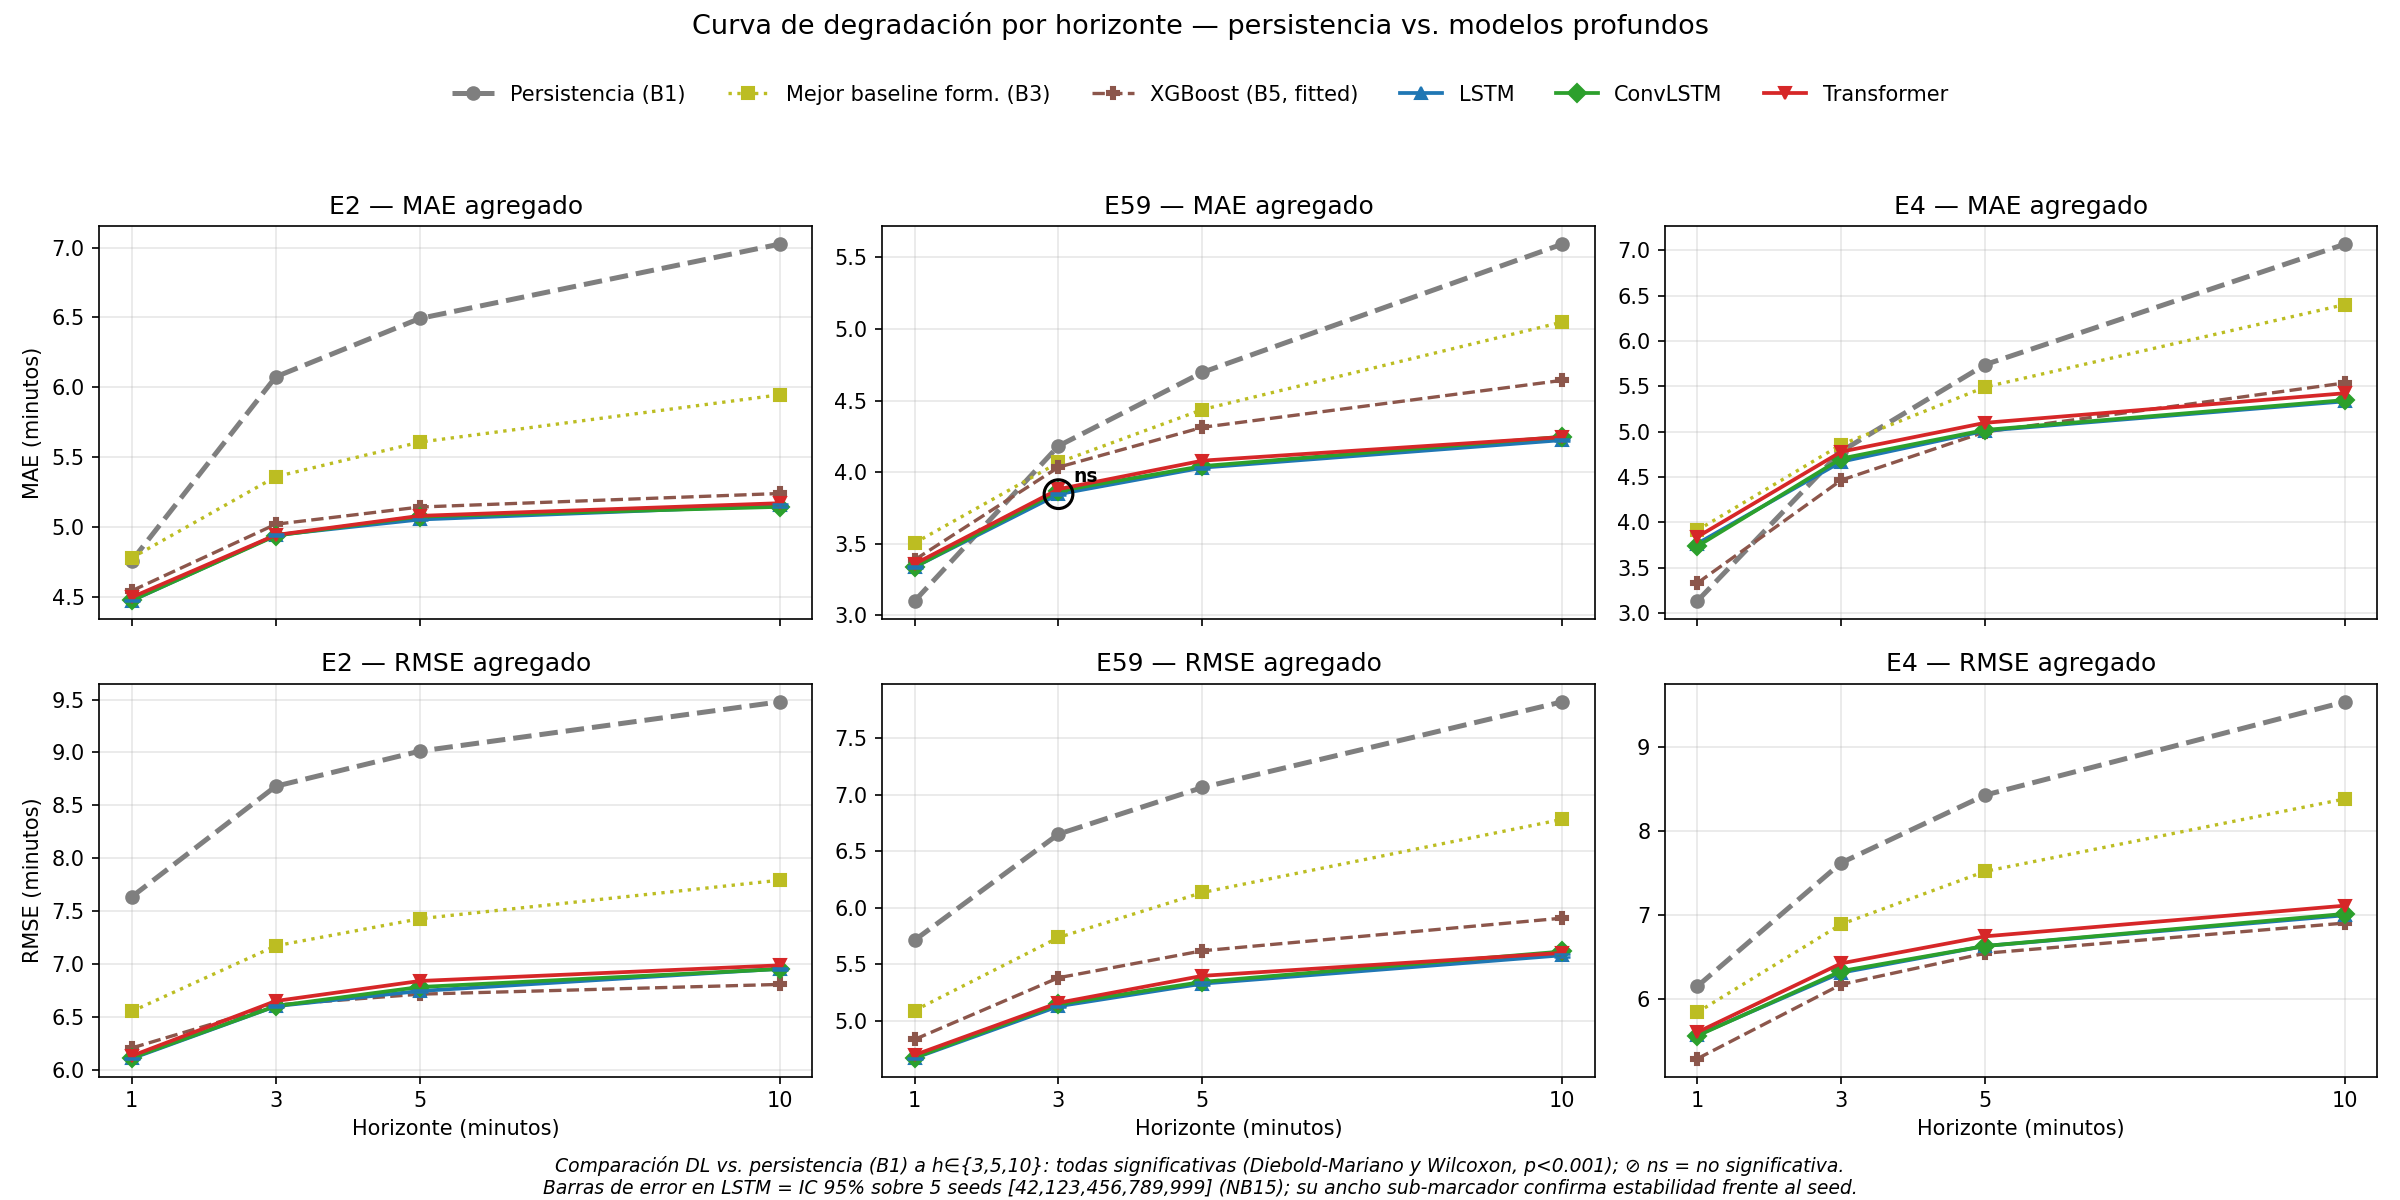
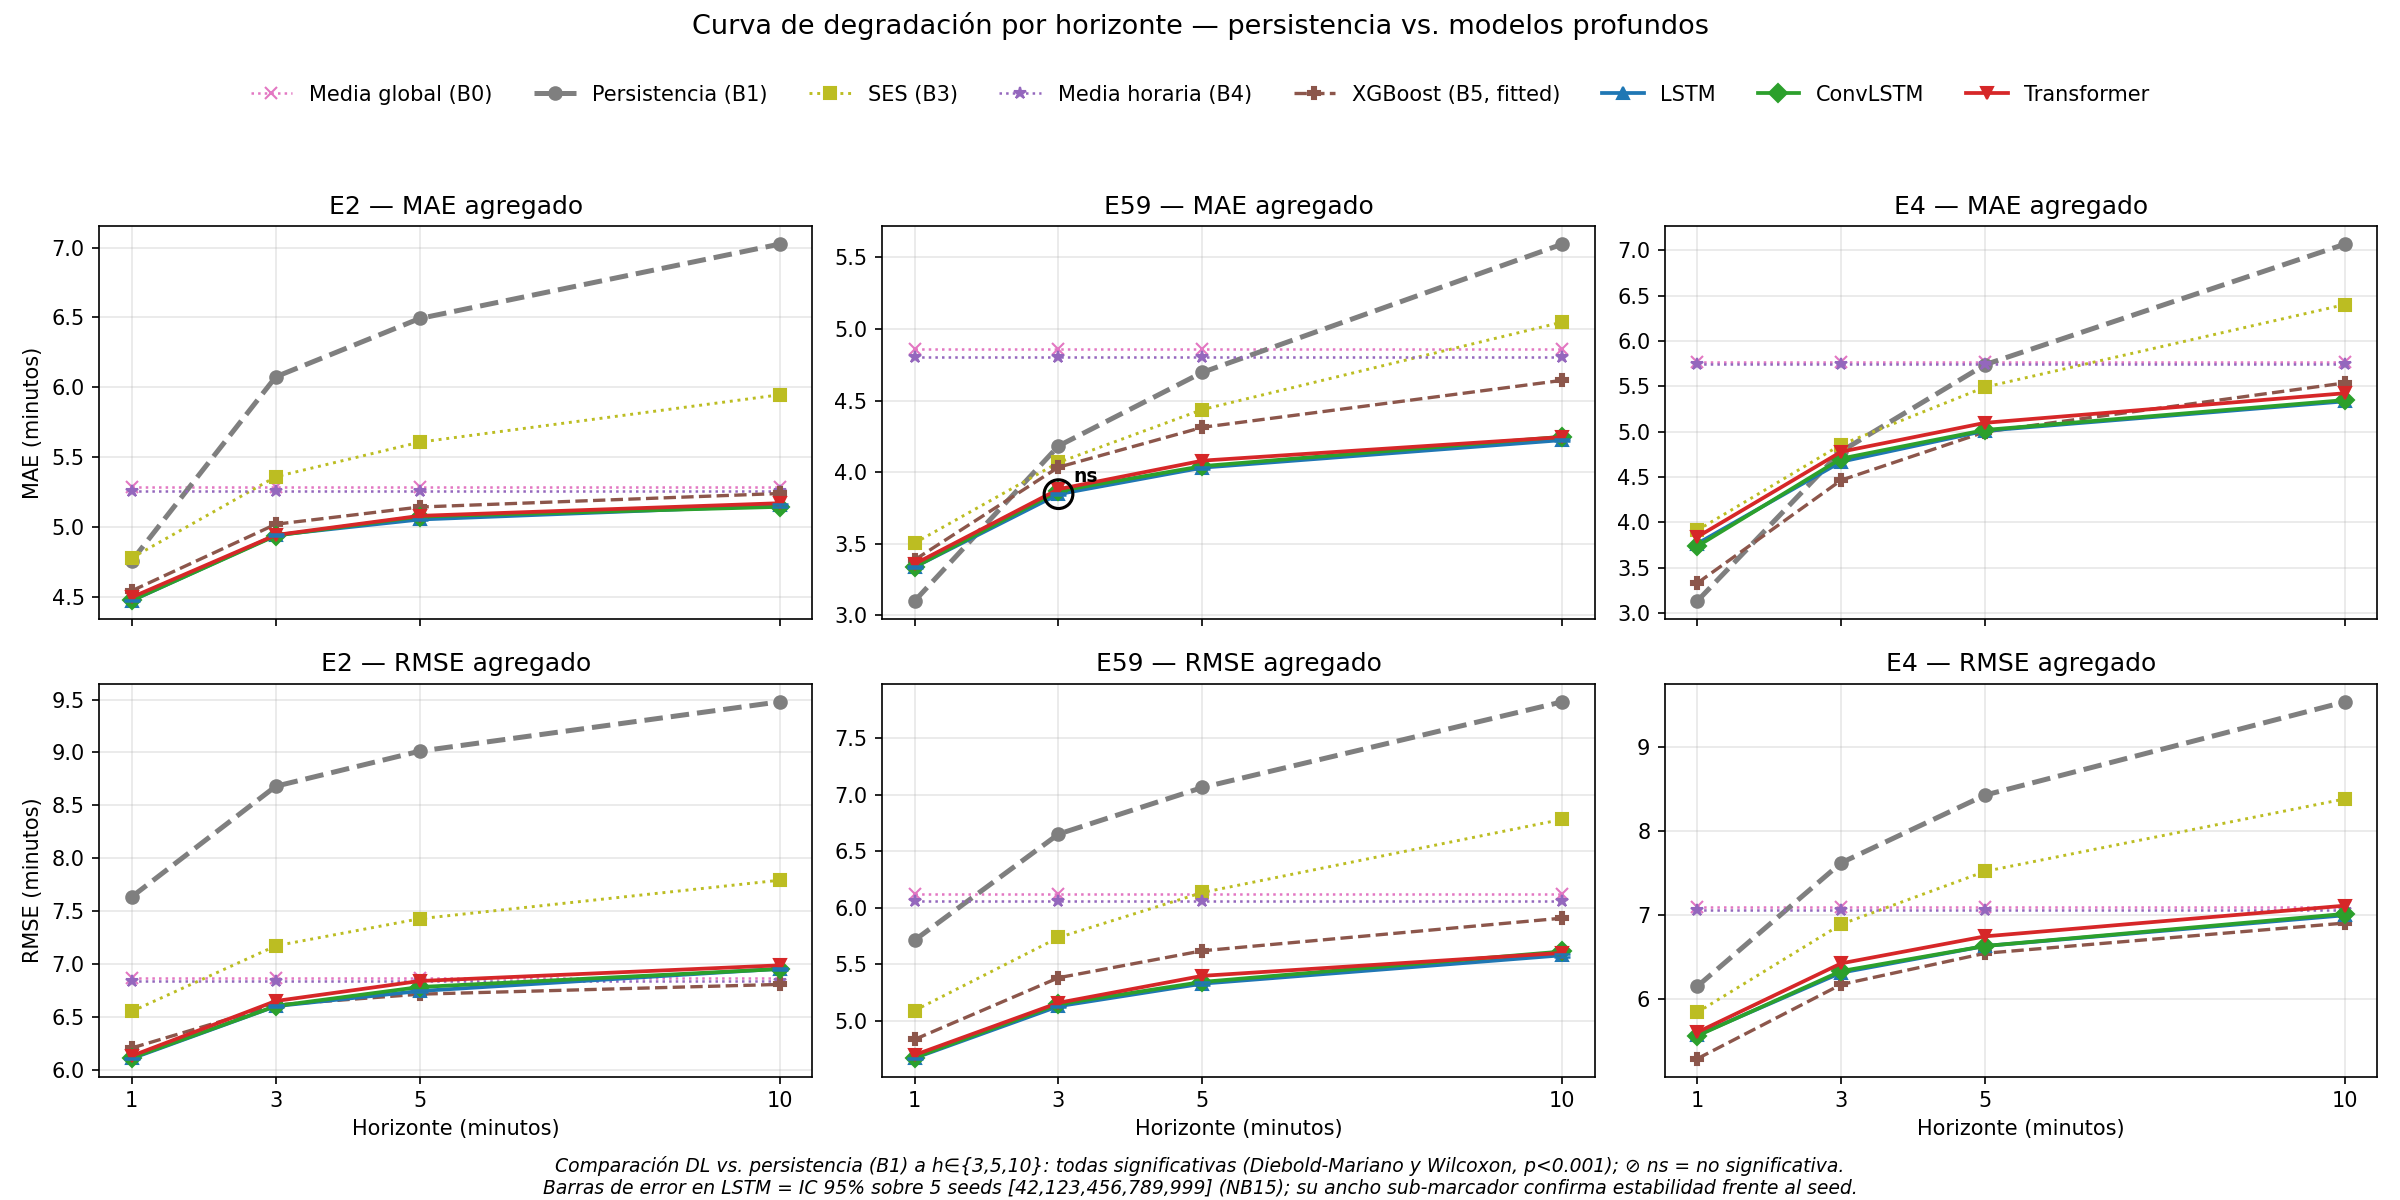
docs(resultados): report DL margin vs best simple baseline per horizon
The headline margins were computed only against persistence (B1), the baseline
that degrades most at long horizons, overstating the DL advantage. Plot B0 and
B4_HA alongside B3 in the degradation figure, relabel B3 as SES (it is not the
best formulaic baseline), and add a per-horizon table comparing the LSTM to the
best simple baseline in each cell (B1 short, SES mid, B4_HA long). The DL still
wins at h>=3 in all three corridors, with smaller but honest margins.

diff --git a/src/build_degradation_curve.py b/src/build_degradation_curve.py
@@ -35,13 +35,14 @@ REPO_ROOT = Path(__file__).resolve().parent.parent
 RESULTS_DIR = REPO_ROOT / "docs" / "resultados" / "csv-multihorizon"
 OUT_DIR = REPO_ROOT / "docs" / "resultados"
 
-# Models to plot, in legend order. Persistence (B1) is the reference the deep
-# models must beat; B3 is the strongest formulaic baseline (see fase-6b doc);
-# B5_XGB is the fitted ML baseline (gradient boosting) — a strong learned
-# competitor the deep models must also beat.
+# Models to plot, in legend order. Persistence (B1) is the operational reference;
+# B0/B3/B4_HA show the formulaic context; B5_XGB is the fitted ML baseline
+# (gradient boosting) — a strong learned competitor the deep models must also beat.
 MODELS = [
+    ("B0", "Media global (B0)", "tab:pink", "x", ":", 1.2),
     ("B1", "Persistencia (B1)", "tab:gray", "o", "--", 2.4),
-    ("B3", "Mejor baseline form. (B3)", "tab:olive", "s", ":", 1.6),
+    ("B3", "SES (B3)", "tab:olive", "s", ":", 1.4),
+    ("B4_HA", "Media horaria (B4)", "tab:purple", "*", ":", 1.2),
     ("B5_XGB", "XGBoost (B5, fitted)", "tab:brown", "P", "--", 1.6),
     ("LSTM", "LSTM", "tab:blue", "^", "-", 1.8),
     ("SpatialConvLSTM", "ConvLSTM", "tab:green", "D", "-", 1.8),

diff --git a/docs/resultados/documento-resultados.md b/docs/resultados/documento-resultados.md
@@ -64,7 +64,7 @@ Enfrentamos dos familias de modelos sobre exactamente los mismos datos y la mism
 
 ![Curva de degradación](curva-degradacion.png)
 
-*Figura 1 — MAE y RMSE frente al horizonte de predicción, para E2, E59 y E4. Cuanto más bajo, mejor. Se grafican la persistencia (B1), el mejor baseline formulaico (B3), el baseline ajustado XGBoost (B5) y los tres modelos profundos. El símbolo ⊘ marca comparaciones no significativas. Las barras de error del LSTM son el IC 95 % sobre 5 seeds (ver Sección 4, "¿O es casualidad del seed?"); su ancho sub-marcador refleja la estabilidad frente al seed.*
+*Figura 1 — MAE y RMSE frente al horizonte de predicción, para E2, E59 y E4. Cuanto más bajo, mejor. Se grafican la persistencia (B1), los baselines formulaicos B0/B3/B4_HA como contexto, el baseline ajustado XGBoost (B5) y los tres modelos profundos. El símbolo ⊘ marca comparaciones no significativas. Las barras de error del LSTM son el IC 95 % sobre 5 seeds (ver Sección 4, "¿O es casualidad del seed?"); su ancho sub-marcador refleja la estabilidad frente al seed.*
 
 **El mensaje:** a 1 minuto la persistencia es imbatible pero **operativamente inútil** (nadie puede reaccionar con 1 minuto de aviso). El valor del DL **emerge al anticipar a 3, 5 y 10 minutos** — justo el margen que un operador necesita para intervenir.
 
@@ -76,13 +76,29 @@ Mirá el cruce (*crossover*[^crossover]) en el extremo izquierdo de cada panel (
 | **E2** (MAE) | B1 4.76 vs **4.47** ✓ | 6.08 vs **4.94** ✓ | 6.49 vs **5.05** ✓ | 7.03 vs **5.15** ✓ |
 | **E4** (MAE) | B1 **3.13** vs LSTM 3.76 ❌ *gana persistencia* | 4.78 vs **4.67** ✓ | 5.74 vs **5.01** ✓ | 7.07 vs **5.33** ✓ |
 
-**Lo más importante — la brecha crece con el horizonte.** A medida que predecimos más lejos, la persistencia se degrada rápido y el DL aguanta:
+**Lo más importante — la brecha crece con el horizonte frente a la persistencia.** A medida que predecimos más lejos, la persistencia se degrada rápido y el DL aguanta:
 
 - **E2 a 10 min:** persistencia 7.026 vs LSTM **5.153** → **−1.87 min de error (−26.7 %)**.
 - **E59 a 10 min:** persistencia 5.593 vs LSTM **4.225** → **−1.37 min de error (−24.5 %)**.
 - **E4 a 10 min:** persistencia 7.070 vs LSTM **5.334** → **−1.74 min de error (−24.5 %)**.
 
 > Los valores de la tabla anterior están redondeados a 2 decimales; los porcentajes se calculan sobre los valores con 3 decimales para que la aritmética sea exacta.
+
+**Chequeo contra el mejor baseline simple (h = 3, 5, 10).** La persistencia es la referencia operativa central, pero no siempre es el baseline simple con menor MAE: el rival más duro **cambia con el horizonte** —persistencia (B1) en el muy corto plazo, suavizado exponencial (B3) en el medio y media horaria (B4_HA) en el largo—. Contra ese mejor baseline simple **por celda**, el LSTM gana en los tres corredores en todos los horizontes operativos (h ≥ 3), aunque con márgenes más chicos que frente a la sola persistencia:
+
+| Corredor | Horizonte | Mejor baseline simple | LSTM | Mejora LSTM |
+|---|---|---:|---:|---:|
+| **E2** | h = 3 | B4_HA 5.259 | **4.940** | −0.32 min (−6.1 %) |
+| **E2** | h = 5 | B4_HA 5.259 | **5.052** | −0.21 min (−3.9 %) |
+| **E2** | h = 10 | B4_HA 5.259 | **5.153** | −0.11 min (−2.0 %) |
+| **E59** | h = 3 | B3 (SES) 4.068 | **3.847** | −0.22 min (−5.4 %) |
+| **E59** | h = 5 | B3 (SES) 4.438 | **4.032** | −0.41 min (−9.1 %) |
+| **E59** | h = 10 | B4_HA 4.805 | **4.225** | −0.58 min (−12.1 %) |
+| **E4** | h = 3 | B1 (persist.) 4.783 | **4.668** | −0.12 min (−2.4 %) |
+| **E4** | h = 5 | B3 (SES) 5.492 | **5.009** | −0.48 min (−8.8 %) |
+| **E4** | h = 10 | B4_HA 5.746 | **5.334** | −0.41 min (−7.2 %) |
+
+El margen más ajustado es E2 a h = 10 (−2.0 %) y E4 a h = 3 (−2.4 %); aun así el signo favorece al DL en las nueve celdas. Esto no cambia la tesis operativa contra persistencia, pero evita sobredimensionar la magnitud del margen cuando el rival es el mejor baseline simple por celda. (A h = 1 el mejor baseline simple aún supera al DL en E59 y E4 —el *crossover* ya discutido—; por eso este chequeo se acota a los horizontes operativamente accionables.)
 
 > **Nota honesta sobre los modelos espaciales.** El mejor DL terminó siendo el **LSTM plano** en agregado en los tres corredores (promediando horizontes); las variantes con convolución y atención no aportaron mejora clara. En celdas puntuales el ConvLSTM iguala o supera al LSTM por márgenes diminutos (< 0.03 min, p. ej. E2 a h=10 y E4 a h=1), pero a h ≥ 5 el LSTM lidera en los tres corredores. Esto se reporta tal cual: añadir complejidad espacial **no** mejoró el pronóstico en estos datos. (En E4, el spread entre los tres modelos profundos es < 0.1 min a h ≥ 5 — el resultado nulo espacial se replica.)
 
